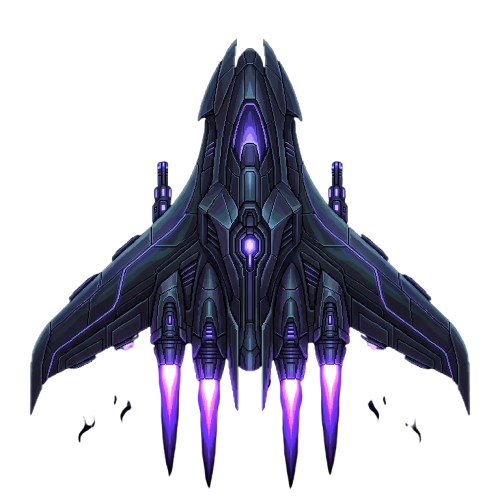
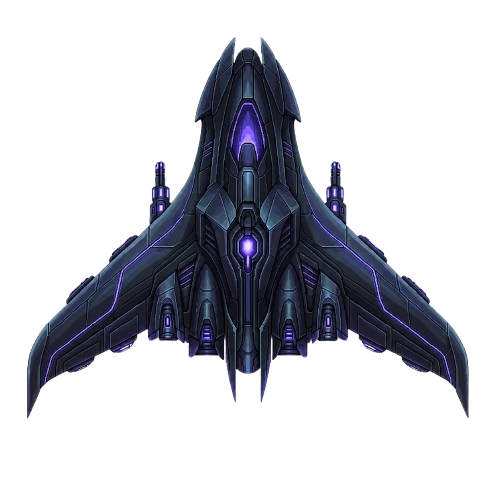
Update ship stats, dynamic enemy damage, Shadow Stealth-Spectre thrusters, and active drone skills

diff --git a/src/game/game.js b/src/game/game.js
@@ -92,14 +92,14 @@ export class Game {
 
     // Configure active ability based on ship theme and name
     const abilityMap = {
-      'starter': { id: 'drone-helper', name: 'Drone Helpers', cd: 12, dur: 10, color: '#66fcf1' },
+      'starter': { id: 'none', name: 'None', cd: 0, dur: 0, color: 'transparent' },
       'z-51-gen-1': { id: 'nano-blades', name: 'Nano-Blades', cd: 13, dur: 10, color: '#ffd700' },
       'ship-1': { id: 'cryo-shockwave', name: 'Cryo-Shockwave', cd: 10, dur: 6, color: '#00e5ff' },
       'z-51': { id: 'lightning-chain', name: 'Chain Lightning', cd: 10, dur: 0.5, color: '#e84545' },
       'spectre': { id: 'laser-beam', name: 'Plasma Laser', cd: 10, dur: 5, color: '#00ff00' },
       'ship-3': { id: 'phase-shift', name: 'Quantum Decoy', cd: 10, dur: 5, color: '#a020f0' },
       'apex': { id: 'chrono-slow', name: 'Chrono Warp', cd: 14, dur: 7, color: '#ff6600' },
-      'shadow-stealth-spectre': { id: 'none', name: 'None', cd: 0, dur: 0, color: 'transparent' },
+      'shadow-stealth-spectre': { id: 'drone-helper', name: 'Drone Helpers', cd: 12, dur: 10, color: '#7b2fff' },
       'gold-eagle': { id: 'deflector-shield', name: 'Mirror Shield', cd: 12, dur: 5, color: '#ffd700' },
       'reaper': { id: 'laser-beam', name: 'Plasma Laser', cd: 10, dur: 5, color: '#ff0033' },
       'ship-5': { id: 'drone-helper', name: 'Dual Drones', cd: 12, dur: 10, color: '#00ff00' },
@@ -529,6 +529,22 @@ export class Game {
         enemy.lastShotTime = time;
         const c = '#a020f0'; // Purple spread
 
+        // Scale enemy bullet damage dynamically based on current level
+        let smallDmg = 1;
+        let waveBossDmg = 5;
+        let levelBossDmg = 10;
+
+        const lvl = enemy.level || this.level || 1;
+        if (lvl >= 8) {
+          smallDmg = 5;
+          waveBossDmg = 10;
+          levelBossDmg = 20;
+        } else if (lvl >= 4) {
+          smallDmg = 3;
+          waveBossDmg = 8;
+          levelBossDmg = 15;
+        }
+
         if (enemy.isLevelBoss) {
           // 5-bullet downward V-spread (mirrors player's upward spread pattern)
           const angles = [-24, -12, 0, 12, 24];
@@ -539,7 +555,7 @@ export class Game {
             this.projectiles.push(new Projectile(
               enemy.x + offsets[i], enemy.y + 140,
               Math.cos(rad) * bossSpeed, Math.sin(rad) * bossSpeed,
-              true, c, 10, 'spread'
+              true, c, levelBossDmg, 'spread'
             ));
           }
           // Homing missile based on boss config
@@ -549,13 +565,13 @@ export class Game {
           }
         } else if (enemy.isBoss) {
           if (bulletCount === 2) {
-            this.projectiles.push(new Projectile(enemy.x - 30, enemy.y + 100, 0, 500, true, c, 5, 'spread'));
-            this.projectiles.push(new Projectile(enemy.x + 30, enemy.y + 100, 0, 500, true, c, 5, 'spread'));
+            this.projectiles.push(new Projectile(enemy.x - 30, enemy.y + 100, 0, 500, true, c, waveBossDmg, 'spread'));
+            this.projectiles.push(new Projectile(enemy.x + 30, enemy.y + 100, 0, 500, true, c, waveBossDmg, 'spread'));
           } else {
-            this.projectiles.push(new Projectile(enemy.x - 60, enemy.y + 100, 0, 500, true, c, 5, 'spread'));
-            this.projectiles.push(new Projectile(enemy.x - 20, enemy.y + 100, 0, 500, true, c, 5, 'spread'));
-            this.projectiles.push(new Projectile(enemy.x + 20, enemy.y + 100, 0, 500, true, c, 5, 'spread'));
-            this.projectiles.push(new Projectile(enemy.x + 60, enemy.y + 100, 0, 500, true, c, 5, 'spread'));
+            this.projectiles.push(new Projectile(enemy.x - 60, enemy.y + 100, 0, 500, true, c, waveBossDmg, 'spread'));
+            this.projectiles.push(new Projectile(enemy.x - 20, enemy.y + 100, 0, 500, true, c, waveBossDmg, 'spread'));
+            this.projectiles.push(new Projectile(enemy.x + 20, enemy.y + 100, 0, 500, true, c, waveBossDmg, 'spread'));
+            this.projectiles.push(new Projectile(enemy.x + 60, enemy.y + 100, 0, 500, true, c, waveBossDmg, 'spread'));
           }
         } else {
           // Small enemy troops
@@ -563,13 +579,13 @@ export class Game {
           const enemyBulletCount = this.wave <= 4 ? 2 : 4;
 
           if (enemyBulletCount === 2) {
-            this.projectiles.push(new Projectile(enemy.x - 15, enemy.y + 20, 0, speedY, true, c, 1, 'spread'));
-            this.projectiles.push(new Projectile(enemy.x + 15, enemy.y + 20, 0, speedY, true, c, 1, 'spread'));
+            this.projectiles.push(new Projectile(enemy.x - 15, enemy.y + 20, 0, speedY, true, c, smallDmg, 'spread'));
+            this.projectiles.push(new Projectile(enemy.x + 15, enemy.y + 20, 0, speedY, true, c, smallDmg, 'spread'));
           } else {
-            this.projectiles.push(new Projectile(enemy.x - 20, enemy.y + 20, 0, speedY, true, c, 1, 'spread'));
-            this.projectiles.push(new Projectile(enemy.x - 7,  enemy.y + 20, 0, speedY, true, c, 1, 'spread'));
-            this.projectiles.push(new Projectile(enemy.x + 7,  enemy.y + 20, 0, speedY, true, c, 1, 'spread'));
-            this.projectiles.push(new Projectile(enemy.x + 20, enemy.y + 20, 0, speedY, true, c, 1, 'spread'));
+            this.projectiles.push(new Projectile(enemy.x - 20, enemy.y + 20, 0, speedY, true, c, smallDmg, 'spread'));
+            this.projectiles.push(new Projectile(enemy.x - 7,  enemy.y + 20, 0, speedY, true, c, smallDmg, 'spread'));
+            this.projectiles.push(new Projectile(enemy.x + 7,  enemy.y + 20, 0, speedY, true, c, smallDmg, 'spread'));
+            this.projectiles.push(new Projectile(enemy.x + 20, enemy.y + 20, 0, speedY, true, c, smallDmg, 'spread'));
           }
         }
       }
@@ -613,8 +629,8 @@ export class Game {
       case 'drone-helper': {
         this.abilityState = {
           drones: [
-            { offset: { x: -45, y: 15 }, lastShot: 0, angle: 0 },
-            { offset: { x: 45, y: 15 }, lastShot: 0, angle: Math.PI }
+            { offset: { x: -80, y: 10 }, lastShot: 0, angle: 0 },
+            { offset: { x: 80, y: 10 }, lastShot: 0, angle: Math.PI }
           ]
         };
         break;
@@ -1050,27 +1066,51 @@ export class Game {
       case 'drone-helper': {
         if (!this.abilityState.drones) break;
         ctx.save();
+
+        if (!this.droneImage) {
+          this.droneImage = new Image();
+          this.droneImage.src = '/player craftship/Drone.png';
+        }
+
         this.abilityState.drones.forEach(drone => {
           const droneX = this.player.x + drone.offset.x;
           const droneY = this.player.y - drone.offset.y;
-          ctx.fillStyle = '#0b0c10';
-          ctx.strokeStyle = this.abilityColor;
-          ctx.lineWidth = 2;
-          ctx.shadowBlur = 10;
-          ctx.shadowColor = this.abilityColor;
-          ctx.beginPath();
-          ctx.arc(droneX, droneY, 12, 0, Math.PI * 2);
-          ctx.fill();
-          ctx.stroke();
-          ctx.fillStyle = '#ffffff';
-          ctx.shadowBlur = 0;
-          ctx.beginPath();
-          ctx.arc(droneX, droneY, 4, 0, Math.PI * 2);
-          ctx.fill();
-          ctx.fillStyle = '#ff0055';
-          ctx.beginPath();
-          ctx.arc(droneX, droneY + 12 + Math.random()*3, 3, 0, Math.PI * 2);
-          ctx.fill();
+
+          if (this.droneImage.complete && this.droneImage.naturalWidth > 0) {
+            // Draw a small thruster flame below the drone image
+            ctx.fillStyle = '#ff5500';
+            ctx.shadowBlur = 10;
+            ctx.shadowColor = '#ff5500';
+            ctx.beginPath();
+            ctx.arc(droneX, droneY + 18 + Math.random() * 3, 4, 0, Math.PI * 2);
+            ctx.fill();
+            
+            // Reset shadows for the image
+            ctx.shadowBlur = 0;
+
+            // Draw the Drone image (40x40) centered at (droneX, droneY)
+            ctx.drawImage(this.droneImage, droneX - 20, droneY - 20, 40, 40);
+          } else {
+            // Fallback to original vector shapes if image is loading
+            ctx.fillStyle = '#0b0c10';
+            ctx.strokeStyle = this.abilityColor;
+            ctx.lineWidth = 2;
+            ctx.shadowBlur = 10;
+            ctx.shadowColor = this.abilityColor;
+            ctx.beginPath();
+            ctx.arc(droneX, droneY, 12, 0, Math.PI * 2);
+            ctx.fill();
+            ctx.stroke();
+            ctx.fillStyle = '#ffffff';
+            ctx.shadowBlur = 0;
+            ctx.beginPath();
+            ctx.arc(droneX, droneY, 4, 0, Math.PI * 2);
+            ctx.fill();
+            ctx.fillStyle = '#ff0055';
+            ctx.beginPath();
+            ctx.arc(droneX, droneY + 12 + Math.random()*3, 3, 0, Math.PI * 2);
+            ctx.fill();
+          }
         });
         ctx.restore();
         break;

diff --git a/src/game/ships.js b/src/game/ships.js
@@ -23,11 +23,11 @@ const getFlameColors = (color) => {
     inner = 'rgba(255, 120, 0, 0.8)';
     shadow = '#ff0000';
     innerShadow = '#ffaa00';
-  } else if (hex === '#a020f0' || hex === '#8a2be2' || hex === 'purple') {
-    outer = 'rgba(120, 0, 220, 0.6)';
-    inner = 'rgba(220, 0, 255, 0.8)';
-    shadow = '#a020f0';
-    innerShadow = '#ff00ff';
+  } else if (hex === '#a020f0' || hex === '#8a2be2' || hex === '#7b2fff' || hex === 'purple') {
+    outer = 'rgba(123, 47, 255, 0.6)';
+    inner = 'rgba(168, 85, 247, 0.9)';
+    shadow = '#7b2fff';
+    innerShadow = '#d8b4fe';
   } else if (hex === '#00ff00' || hex === '#00ff88' || hex === 'green') {
     outer = 'rgba(0, 220, 80, 0.6)';
     inner = 'rgba(100, 255, 100, 0.8)';
@@ -565,13 +565,13 @@ export const SHIPS = [
         ctx.save();
         const flameLengthOuter = height * 0.62 * flicker;
         const startYOuter = height * 0.35;
-        const flameWidthOuter = width * 0.14;
+        const flameWidthOuter = width * 0.12;
 
-        const drawOuterFlame = (xPosition) => {
+        const drawOuterFlame = (xPosition, lengthVal) => {
           ctx.beginPath();
           ctx.moveTo(xPosition - flameWidthOuter/2, startYOuter);
-          ctx.quadraticCurveTo(xPosition - flameWidthOuter/4, startYOuter + flameLengthOuter, xPosition, startYOuter + flameLengthOuter * 1.2);
-          ctx.quadraticCurveTo(xPosition + flameWidthOuter/4, startYOuter + flameLengthOuter, xPosition + flameWidthOuter/2, startYOuter);
+          ctx.quadraticCurveTo(xPosition - flameWidthOuter/4, startYOuter + lengthVal, xPosition, startYOuter + lengthVal * 1.2);
+          ctx.quadraticCurveTo(xPosition + flameWidthOuter/4, startYOuter + lengthVal, xPosition + flameWidthOuter/2, startYOuter);
           ctx.closePath();
           ctx.fillStyle = colors.outer;
           ctx.shadowBlur = 20;
@@ -579,8 +579,10 @@ export const SHIPS = [
           ctx.fill();
         };
 
-        drawOuterFlame(-width * 0.14);
-        drawOuterFlame(width * 0.125);
+        drawOuterFlame(-width * 0.33, flameLengthOuter);       // 1: Left Outer
+        drawOuterFlame(-width * 0.18, flameLengthOuter * 0.7); // 2: Left Inner (increased length slightly)
+        drawOuterFlame(width * 0.16, flameLengthOuter * 0.7);  // 4: Right Inner (increased length slightly)
+        drawOuterFlame(width * 0.31, flameLengthOuter);       // 3: Right Outer
         ctx.restore();
 
         // 2. Draw the ship image
@@ -589,14 +591,13 @@ export const SHIPS = [
         // 3. Draw the inner flames/cores ON TOP of the ship (emerging through the thrusters)
         ctx.save();
         const flameLengthInner = height * 0.19 * flicker;
-        const startYInner = height * 0.61;
-        const flameWidthInner = width * 0.08;
+        const flameWidthInner = width * 0.07;
 
-        const drawInnerFlame = (xPosition) => {
+        const drawInnerFlame = (xPosition, yStart, lengthVal) => {
           ctx.beginPath();
-          ctx.moveTo(xPosition - flameWidthInner/2, startYInner);
-          ctx.quadraticCurveTo(xPosition - flameWidthInner/4, startYInner + flameLengthInner, xPosition, startYInner + flameLengthInner * 1.2);
-          ctx.quadraticCurveTo(xPosition + flameWidthInner/4, startYInner + flameLengthInner, xPosition + flameWidthInner/2, startYInner);
+          ctx.moveTo(xPosition - flameWidthInner/2, yStart);
+          ctx.quadraticCurveTo(xPosition - flameWidthInner/4, yStart + lengthVal, xPosition, yStart + lengthVal * 1.2);
+          ctx.quadraticCurveTo(xPosition + flameWidthInner/4, yStart + lengthVal, xPosition + flameWidthInner/2, yStart);
           ctx.closePath();
           ctx.fillStyle = colors.inner;
           ctx.shadowBlur = 10;
@@ -605,15 +606,17 @@ export const SHIPS = [
 
           // White-hot core
           ctx.beginPath();
-          ctx.moveTo(xPosition - flameWidthInner/3, startYInner);
-          ctx.quadraticCurveTo(xPosition, startYInner + flameLengthInner * 0.6, xPosition + flameWidthInner/3, startYInner);
+          ctx.moveTo(xPosition - flameWidthInner/3, yStart);
+          ctx.quadraticCurveTo(xPosition, yStart + lengthVal * 0.6, xPosition + flameWidthInner/3, yStart);
           ctx.closePath();
           ctx.fillStyle = '#ffffff';
           ctx.fill();
         };
 
-        drawInnerFlame(-width * 0.14);
-        drawInnerFlame(width * 0.125);
+        drawInnerFlame(-width * 0.33, height * 0.35, flameLengthInner);       // 1: Left Outer
+        drawInnerFlame(-width * 0.18, height * 0.42, flameLengthInner * 0.7); // 2: Left Inner (increased length slightly)
+        drawInnerFlame(width * 0.16, height * 0.42, flameLengthInner * 0.7);  // 4: Right Inner (increased length slightly)
+        drawInnerFlame(width * 0.31, height * 0.35, flameLengthInner);       // 3: Right Outer (small flame adjusted right to 0.31)
         ctx.restore();
       }
     }
@@ -728,8 +731,8 @@ export const SHIPS = [
     color: '#00ff00',
     cost: 2500000,
     weaponStyle: 'red-spread',
-    stats: { power: 300, attack: 200, defense: 200, speed: 50 },
-    engineSpecs: { rawHp: 1350, rawSpeed: 510, fireRate: 180, damage: 180 },
+    stats: { power: 100, attack: 200, defense: 200, speed: 50 },
+    engineSpecs: { rawHp: 1350, rawSpeed: 510, fireRate: 180, damage: 200 },
     draw: function(ctx, width, height, color) {
       if (!this._img) { this._img = new Image(); this._img.src = '/player craftship/Phantom 7.png'; }
       if (this._img.complete && this._img.naturalWidth > 0) {
@@ -806,8 +809,8 @@ export const SHIPS = [
     color: '#ffffff',
     cost: 3000000,
     weaponStyle: 'red-spread',
-    stats: { power: 300, attack: 200, defense: 220, speed: 40 },
-    engineSpecs: { rawHp: 1500, rawSpeed: 450, fireRate: 200, damage: 200 },
+    stats: { power: 150, attack: 200, defense: 220, speed: 40 },
+    engineSpecs: { rawHp: 1500, rawSpeed: 450, fireRate: 200, damage: 300 },
     draw: function(ctx, width, height, color) {
       if (!this._img) { this._img = new Image(); this._img.src = '/player craftship/White_Titan_Vulcan.png'; }
       if (this._img.complete && this._img.naturalWidth > 0) {

diff --git a/src/components/Hangar.js b/src/components/Hangar.js
@@ -4,9 +4,9 @@ import { SHIPS } from '@/game/ships';
 
 const HANGAR_ABILITY_INFO = {
   'starter': { 
-    id: 'drone-helper', 
-    name: 'Drone Helpers', 
-    description: 'Summons two micro-drones flanking your craft that automatically target and fire at nearby targets.' 
+    id: 'none', 
+    name: 'None', 
+    description: 'This starter craft does not have any active special power.' 
   },
   'z-51-gen-1': { 
     id: 'nano-blades', 
@@ -39,9 +39,9 @@ const HANGAR_ABILITY_INFO = {
     description: 'Slows down time for enemies and their bullets by 70% while you move and fire at normal speed.' 
   },
   'shadow-stealth-spectre': { 
-    id: 'none', 
-    name: 'None', 
-    description: 'This shadow assassin craft does not have any active special power.' 
+    id: 'drone-helper', 
+    name: 'Drone Helpers', 
+    description: 'Summons two micro-drones flanking your craft that automatically target and fire at nearby targets.' 
   },
   'gold-eagle': { 
     id: 'deflector-shield', 
@@ -455,7 +455,7 @@ export default function Hangar({ globalMoney, setGlobalMoney, unlockedShips, set
              <div className="stat-row">
                <div className="stat-label">POWER</div>
                <div className="stat-bar-bg">
-                 <div className="stat-bar-fill" style={{width: `${((selectedShip.engineSpecs.damage / 2) / 100) * 100}%`}}></div>
+                 <div className="stat-bar-fill" style={{width: `${((selectedShip.engineSpecs.damage / 2) / 150) * 100}%`}}></div>
                </div>
                <div className="stat-value">{selectedShip.engineSpecs.damage / 2}</div>
              </div>

diff --git a/src/components/GameCanvas.js b/src/components/GameCanvas.js
@@ -6,14 +6,14 @@ import LevelMap from './LevelMap';
 import { SHIPS } from '@/game/ships';
 
 const abilityConfig = {
-  'starter': { name: 'Drones', color: '#66fcf1' },
+  'starter': { name: 'None', color: 'rgba(255, 255, 255, 0.2)' },
   'z-51-gen-1': { name: 'Blades', color: '#ffd700' },
   'ship-1': { name: 'Freeze', color: '#00e5ff' },
   'z-51': { name: 'Chain', color: '#e84545' },
   'spectre': { name: 'Laser', color: '#00ff00' },
   'ship-3': { name: 'Decoy', color: '#a020f0' },
   'apex': { name: 'Warp', color: '#ff6600' },
-  'shadow-stealth-spectre': { name: 'None', color: 'rgba(255, 255, 255, 0.2)' },
+  'shadow-stealth-spectre': { name: 'Drones', color: '#7b2fff' },
   'gold-eagle': { name: 'Shield', color: '#ffd700' },
   'reaper': { name: 'Solar', color: '#ff0033' },
   'ship-5': { name: 'Drones', color: '#00ff00' },
